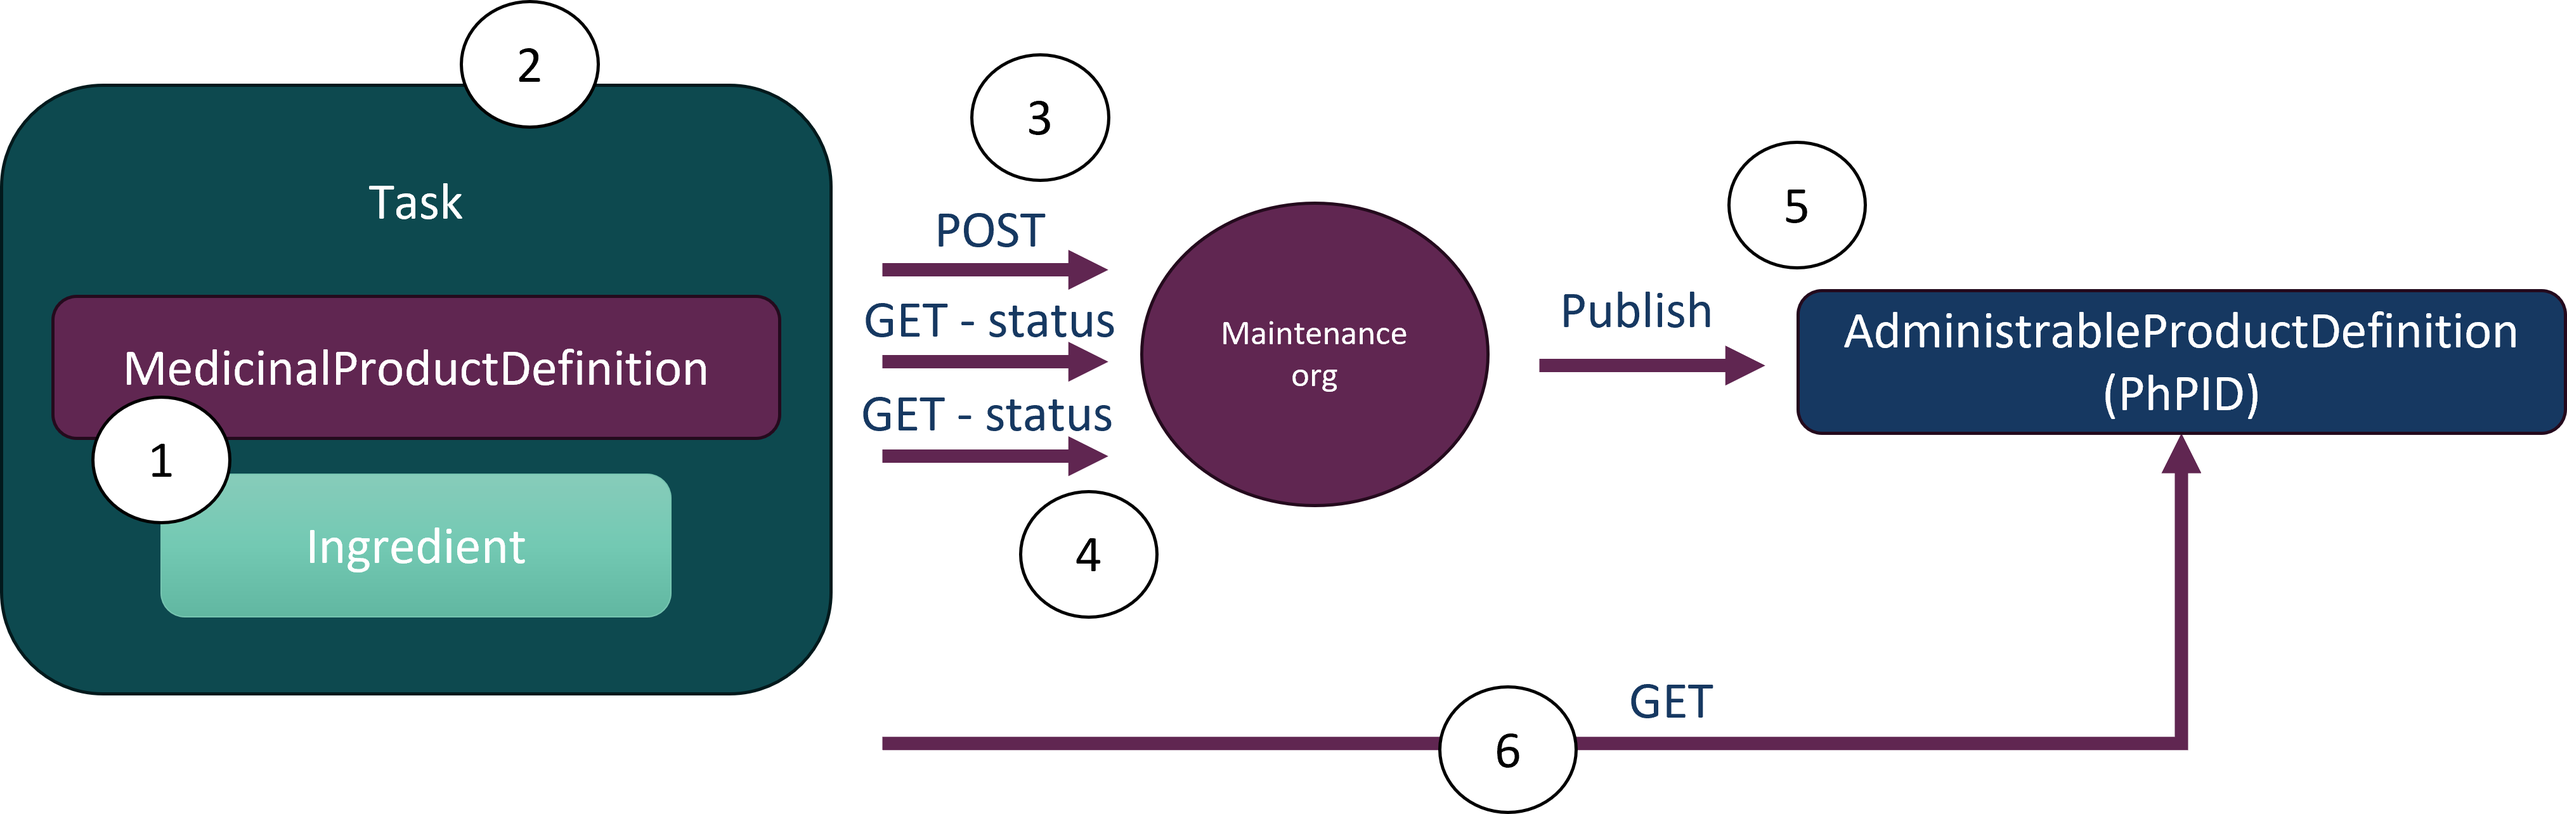
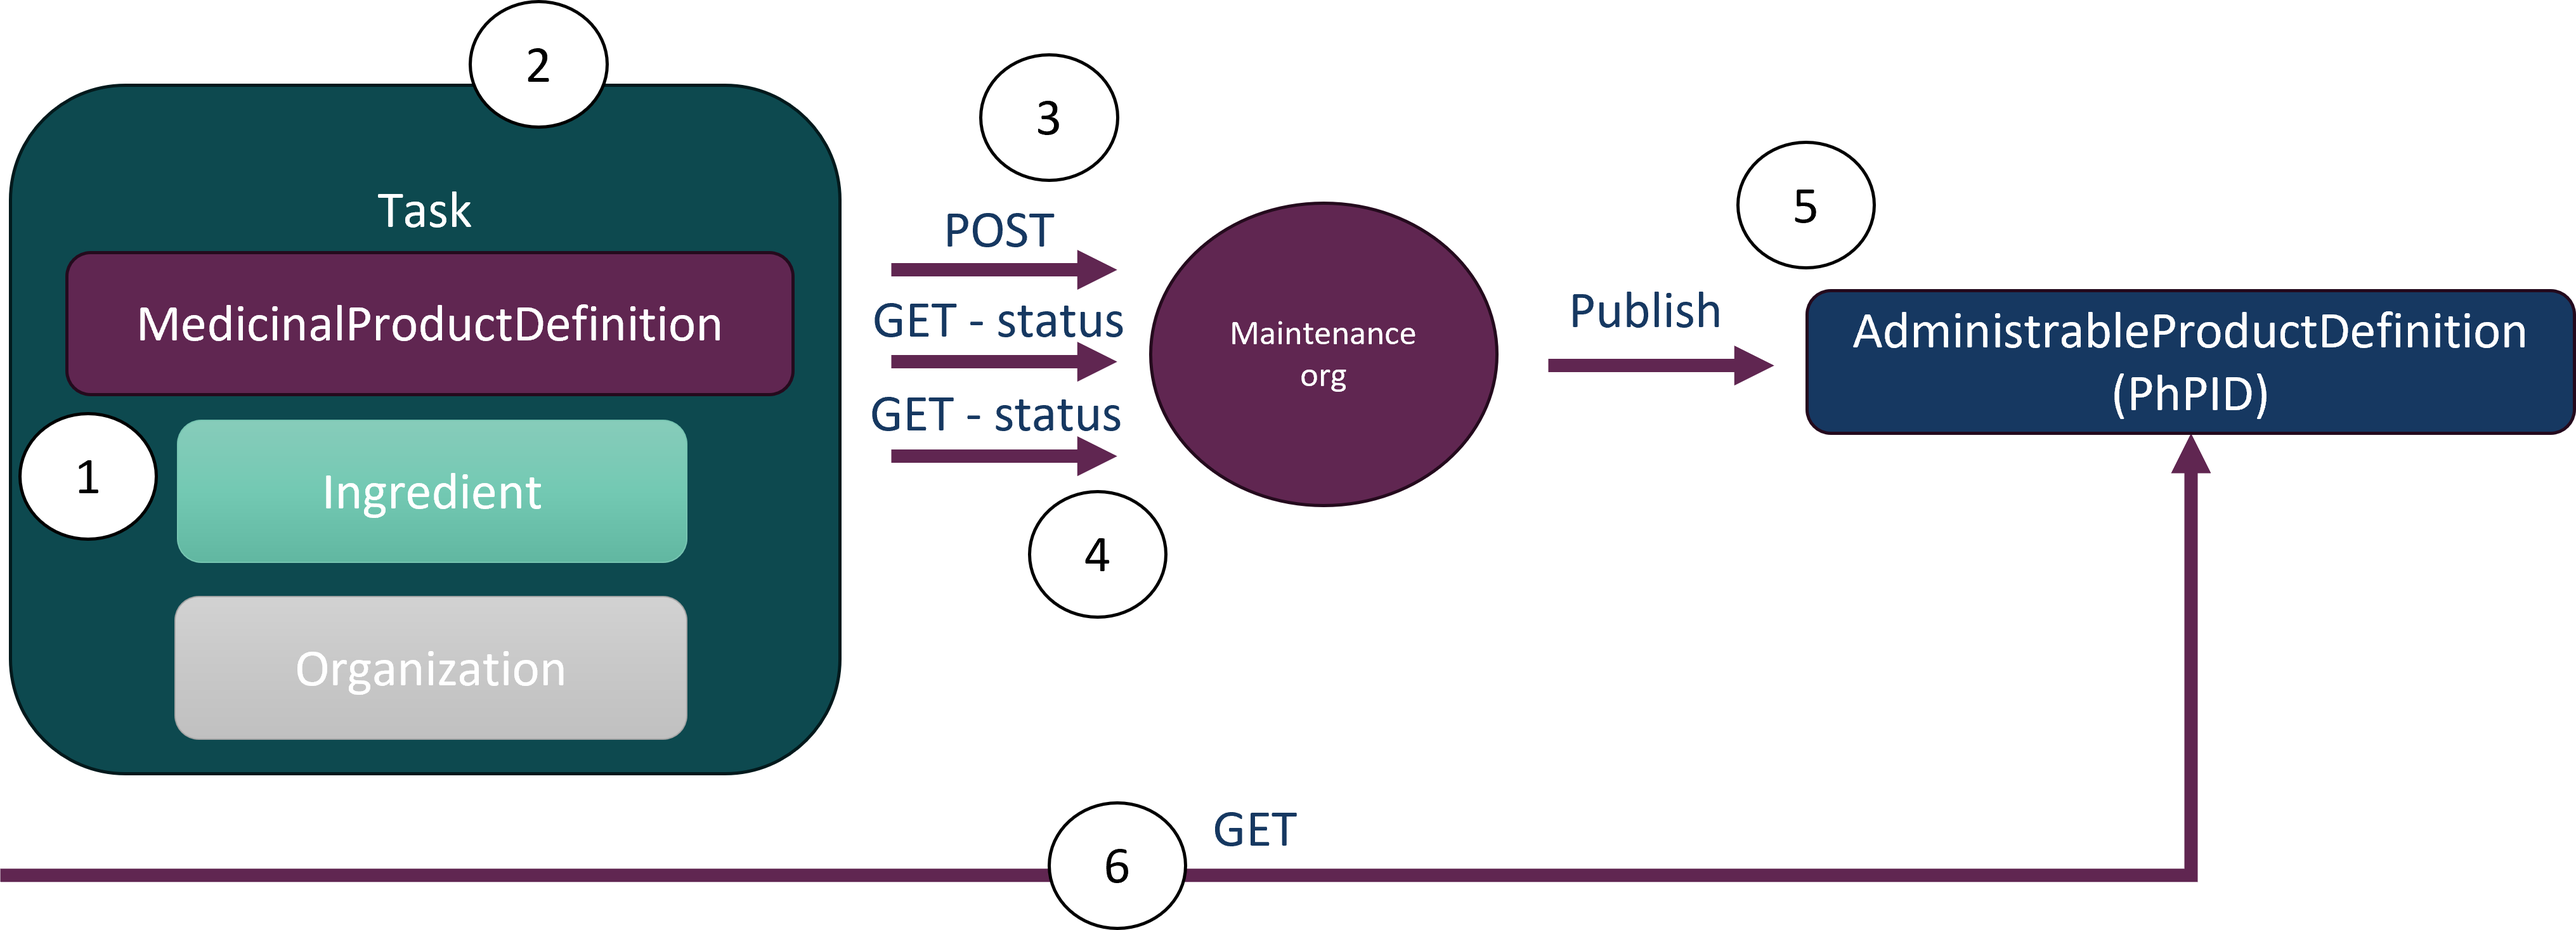
Modifying some profiles and extending documentation of Task process

diff --git a/input/pagecontent/phpIdRequest.md b/input/pagecontent/phpIdRequest.md
@@ -10,8 +10,8 @@ Upon a successful request, a PhPID is generated and an (APD) resource representi
 
 ### Workflow
 
-1. Create a MedicinalProductDefinition (MPD) resource together with Ingredient (I) resource(s) with the information available for PhPID generation. The resources should only have ids for internal references in the Task. If available, local Medicinal Product Identifiers (MPID)s should be present in the identifier section of the (MPD). Substances should (if possible) be referenced using the Globasl Substance Identifiers (GSID)s. 
-2. Place the (MPD) and (I) resources in the contained section of a Task resource.
+1. Create a MedicinalProductDefinition (MPD) resource together with Ingredient (I) resource(s) with the information available for PhPID generation. The resources should only have ids for internal references in the Task. If available, local Medicinal Product Identifiers (MPID)s should be present in the identifier section of the (MPD). Substances should (if possible) be referenced using the Globasl Substance Identifiers (GSID)s. Also add a contact for the (MPD) using an Organization (O) resource. 
+2. Place the (MPD), (I) amd (O) resources in the contained section of a Task resource and reference them in the input section.
 3. POST the Task to the maintenance organization. Before POSTing the Task it should be validated using a Task/$validate POST call.
 4. GET the status of the Task by using the 'ContentLocation' header returned from the POST call. It is also possible to get the status by requesting the Task given the id of the Task returned as response of the POST.
 5. When finished the GET call will display status 'completed' and the body of the get will contain the Task with a reference to the generated AdministrableProductDefinition (APD) resource (including a PhPID) in the output section.
